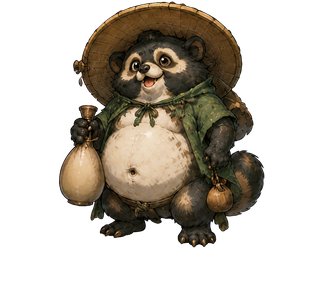
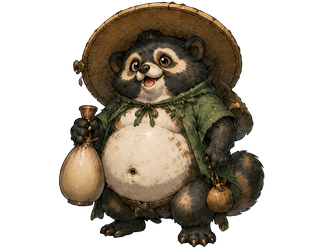
化け狸の足浮き修正: PNG下端の見えない半透明余白49pxをトリム
CSSの下端寄せ(object-position)は効いていたが、化け狸のPNGだけ見える足の下に
alpha<64の薄い半透明ピクセル帯が49px残っており(他9体は2〜6px、焼き込み影の名残とみられる)、
これが絵の下端として扱われて浮いて見えていた。実質可視の下端+3px(他個体と同等)で
320x296→320x250へトリム。WebKit probeで猪/木霊と接地ライン一致を確認。元画像はgit履歴に残る

Claude-Session: https://claude.ai/code/session_01GCRHbynsY6dJ39RHqebWFL

diff --git a/tools/tanuki_ground_probe.js b/tools/tanuki_ground_probe.js
@@ -1,0 +1,30 @@
+const { webkit, devices } = require("playwright");
+(async () => {
+  const browser = await webkit.launch();
+  const ctx = await browser.newContext({ ...devices["iPhone 13"] });
+  const page = await ctx.newPage();
+  await page.goto("https://onsen-mura-monogatari.pages.dev/", { waitUntil: "load", timeout: 45000 });
+  await page.waitForTimeout(1500);
+  await page.evaluate(() => { const g = document.getElementById("openingTapGate"); if (g) g.dispatchEvent(new PointerEvent("pointerdown", { bubbles: true })); });
+  await page.waitForTimeout(2800);
+  await page.evaluate(() => document.dispatchEvent(new PointerEvent("pointerdown", { bubbles: true })));
+  await page.waitForTimeout(1600);
+  await page.evaluate(() => document.getElementById("titleTestBtn").click());
+  await page.waitForTimeout(1200);
+  await page.evaluate(() => {
+    const es = [instantiateEnemyById("inoshishi"), instantiateEnemyById("bake_danuki"), instantiateEnemyById("kodama")];
+    es.forEach((e) => { e.spd = 0; });
+    startBattle(es, null, "接地検証！");
+  });
+  await page.waitForTimeout(1800);
+  const info = await page.evaluate(() => {
+    const imgs = [...document.querySelectorAll(".enemy-card img.card-portrait-img")];
+    return imgs.map((i) => ({
+      objPos: getComputedStyle(i).objectPosition,
+      boxBottom: Math.round(i.getBoundingClientRect().bottom),
+    }));
+  });
+  console.log(JSON.stringify(info));
+  await page.screenshot({ path: "../tmp/tanuki_ground.png", clip: { x: 0, y: 100, width: 390, height: 300 } });
+  await browser.close();
+})().catch((e) => { console.error(e); process.exit(1); });
